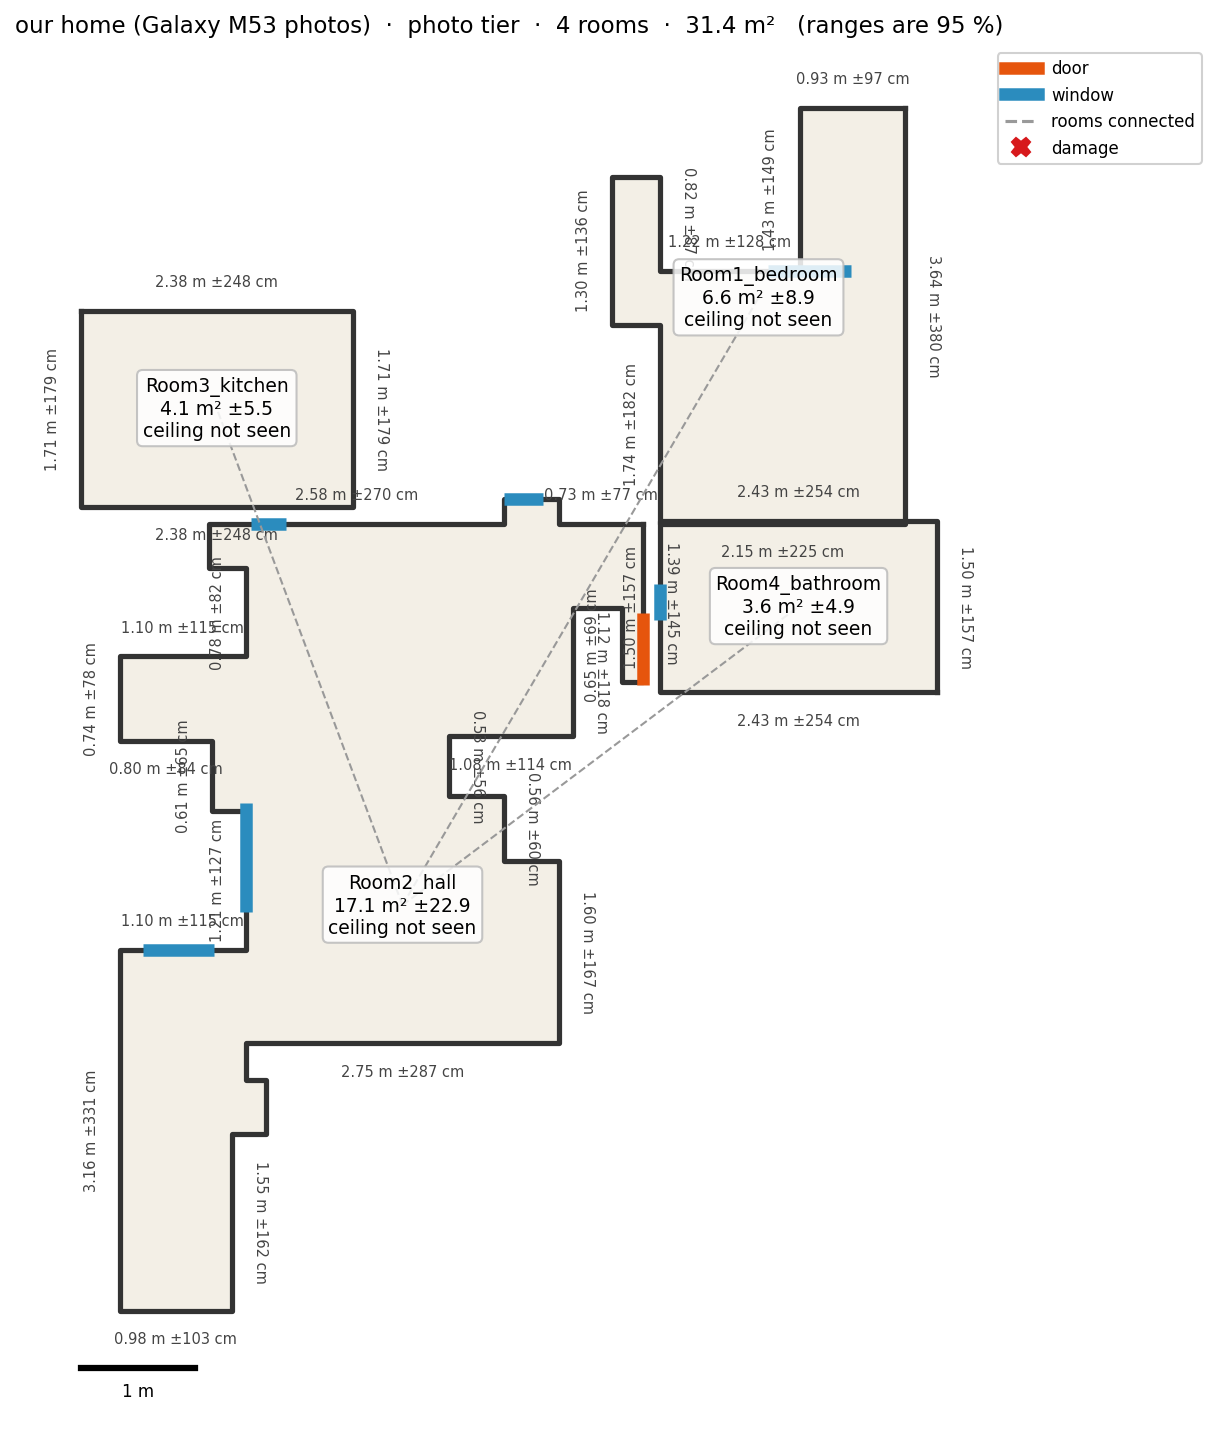
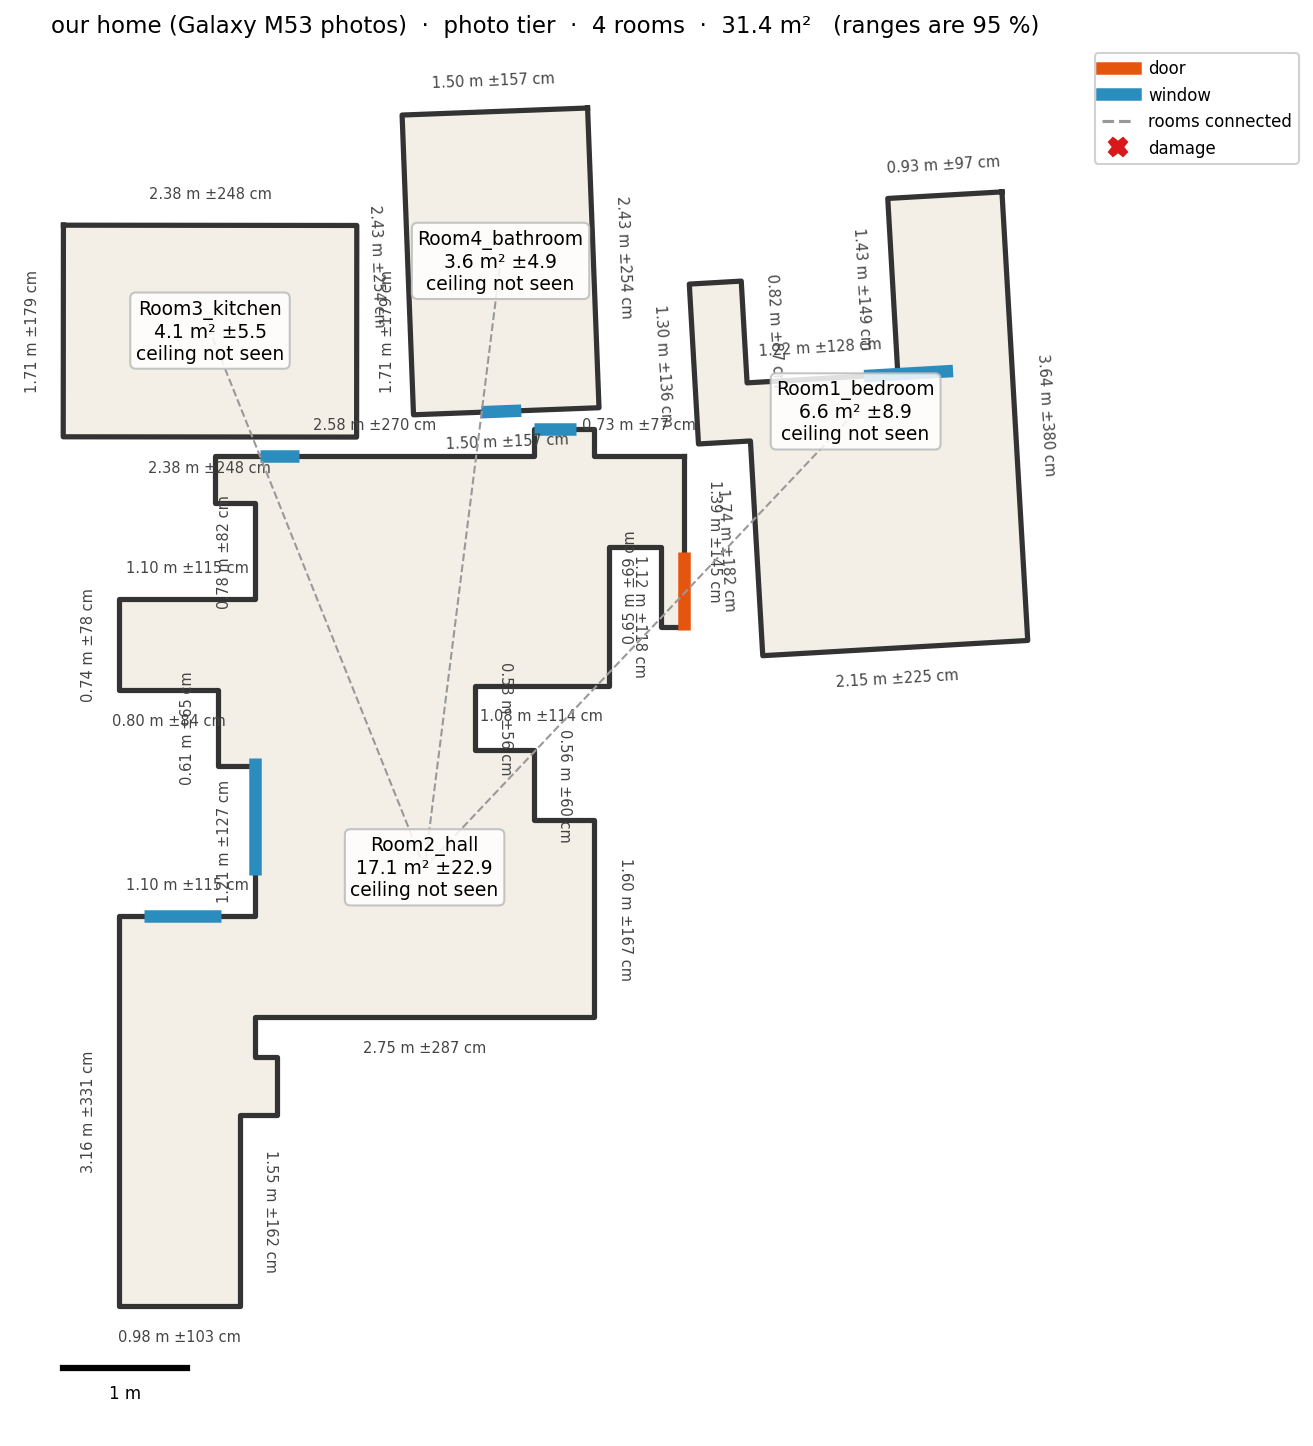
Photo stitching: align rooms on the shared doorway photo's camera, then slide against the hall wall

diff --git a/roomscan/stitch_rooms.py b/roomscan/stitch_rooms.py
@@ -101,11 +101,29 @@ def _doors(info, k):
     return ds
 
 
+def same_photo_pose(info_i, ki, info_j, kj):
+    """(R2, t) moving room j so that photo kj lands on photo ki, looking the same way. Used when the very same
+    photo is in both rooms' folders: it was taken from one spot, so its camera must coincide in both rooms."""
+    fi, fj = _unit(info_i["forward_plan"][ki]), _unit(info_j["forward_plan"][kj])
+    ang = np.arctan2(fi[1], fi[0]) - np.arctan2(fj[1], fj[0])
+    R = np.array([[np.cos(ang), -np.sin(ang)], [np.sin(ang), np.cos(ang)]])
+    return R, np.asarray(info_i["cameras_plan"][ki], float) - R @ np.asarray(info_j["cameras_plan"][kj], float)
+
+
 def _candidates(infos, rooms, placed_idx, i, j, link, used):
     """All (score, j, R, t, door_i, door_j) for attaching unplaced room j to placed room i."""
     ki, kj = (link["photo_i"], link["photo_j"]) if i < j else (link["photo_j"], link["photo_i"])
     cos_lim = np.cos(np.radians(AIM_MAX_DEG))
     out = []
+    if link.get("same_photo"):
+        # strongest evidence: the shared photo's camera is one point in both rooms
+        R, t = same_photo_pose(infos[i], ki, infos[j], kj)
+        cand = transform_room(infos[j]["room"], R, t)
+        ov = _overlap(cand, [rooms[p] for p in placed_idx])
+        cam = {"id": f"{infos[j]['room']['id']}_shared_photo", "mid": np.asarray(infos[i]["cameras_plan"][ki], float),
+               "normal_out": _unit(infos[i]["forward_plan"][ki]), "width": VIRTUAL_DOOR_WIDTH, "virtual": True}
+        out.append((np.log1p(link["matches"]) + 3.0 - 2 * ov, R, t, cam, cam, ov))
+        return out
     for da in _doors(infos[i], ki):
         if da["id"] in used:
             continue
@@ -138,6 +156,24 @@ def resolve_overlap(room, placed, normal):
         k += 1
 
 
+def slide_to(room, target, placed, gap=WALL_THICKNESS):
+    """Move room straight towards `target` until they are `gap` apart, stopping early if it would overlap a
+    placed room. A shared photo fixes a room's turn well but its position only to about a metre."""
+    from shapely.ops import nearest_points
+    p, q = nearest_points(_poly(room), _poly(target))
+    d = p.distance(q)
+    if d <= gap + PUSH_STEP:
+        return room, 0.0
+    u = _unit([q.x - p.x, q.y - p.y])
+    moved, done = room, 0.0
+    for dist in list(np.arange(PUSH_STEP, d - gap, PUSH_STEP)) + [d - gap]:
+        nxt = transform_room(room, np.eye(2), u * dist)
+        if _overlap(nxt, placed) > MAX_OVERLAP:
+            break
+        moved, done = nxt, float(dist)
+    return moved, done
+
+
 def stitch(infos, links):
     """infos: per room {"room", "cameras_plan", "forward_plan"} in the room's own plan coordinates;
     links: {(i, j): {"matches", "photo_i", "photo_j"}} with i < j. Returns (rooms, adjacency, warnings)."""
@@ -168,6 +204,10 @@ def stitch(infos, links):
         if ov > MAX_OVERLAP:
             room, pushed = resolve_overlap(room, [rooms[p] for p in placed], _unit(da["normal_out"]))
             warnings.append(f"{room['id']}: pushed {pushed:.2f} m away from {rooms[a]['id']} to avoid overlap")
+        elif l.get("same_photo"):
+            room, slid = slide_to(room, rooms[a], [rooms[p] for p in placed])
+            if slid > 0:
+                warnings.append(f"{room['id']}: moved {slid:.2f} m towards {rooms[a]['id']} to close the gap")
         rooms[b] = room
         placed.append(b)
         # a detected door joins exactly two rooms; a virtual door is only "the wall this photo looks at",

diff --git a/tests/test_stitch_rooms.py b/tests/test_stitch_rooms.py
@@ -138,3 +138,32 @@ def test_conflicting_placement_pushed_apart():
                                 (0, 2): {"matches": 40, "photo_i": 0, "photo_j": 0}})
     assert _overlaps(rooms) <= 0.1
     assert any("pushed" in w for w in warns)
+
+
+def test_same_photo_in_both_rooms_aligns_the_two_cameras():
+    # hall 4 x 3; the shared doorway photo was taken in the east doorway at (4.0, 2.5), looking east (+x)
+    hall = make_room("H", [(0, 0), (4, 0), (4, 3), (0, 3)])
+    # room B (2 x 2) in its own frame, turned 90 deg: the same photo sits at (1.0, 0.0) looking north (+y)
+    b = make_room("B", [(0, 0), (2, 0), (2, 2), (0, 2)])
+    infos = [info(hall, [(1, 1), (4.0, 2.5)], [(1, 0), (1, 0)]),
+             info(b, [(1.0, 0.0), (1, 1)], [(0, 1), (0, 1)])]
+    links = {(0, 1): {"matches": 800, "photo_i": 1, "photo_j": 0, "same_photo": True}}
+    rooms, adj, _ = stitch(infos, links)
+    # B is turned -90 deg so its camera lands on the hall's camera, looking the same way:
+    # B's corner (0, 0) -> (4.0, 3.5) and (2, 2) -> (6.0, 1.5); no push needed
+    np.testing.assert_allclose(rooms[1]["polygon"][0], [4.0, 3.5], atol=1e-6)
+    np.testing.assert_allclose(rooms[1]["polygon"][2], [6.0, 1.5], atol=1e-6)
+    assert len(adj) == 1
+
+
+def test_room_placed_by_shared_photo_is_slid_up_to_the_hall():
+    # same rooms, but the shared photo's position in B is 1 m off: B would float 1 m east of the hall
+    hall = make_room("H", [(0, 0), (4, 0), (4, 3), (0, 3)])
+    b = make_room("B", [(0, 0), (2, 0), (2, 2), (0, 2)])
+    infos = [info(hall, [(1, 1), (4.0, 2.5)], [(1, 0), (1, 0)]),
+             info(b, [(1.0, -1.0), (1, 1)], [(0, 1), (0, 1)])]
+    links = {(0, 1): {"matches": 800, "photo_i": 1, "photo_j": 0, "same_photo": True}}
+    rooms, _, _ = stitch(infos, links)
+    gap = Polygon(rooms[0]["polygon"]).distance(Polygon(rooms[1]["polygon"]))
+    assert abs(gap - 0.15) < 0.03
+    assert _overlaps(rooms) < 1e-6

diff --git a/roomscan/photo_links.py b/roomscan/photo_links.py
@@ -52,6 +52,10 @@ def room_links(images_by_room, min_matches=25):
                     m = _inliers(fa, fb, matcher)
                     if m > best[0]:
                         best = (m, p, q)
+            same = [(p, q) for p, a in enumerate(images_by_room[i]) for q, b in enumerate(images_by_room[j])
+                    if a.shape == b.shape and np.array_equal(a, b)]
+            if same:                                   # the protocol's doorway photo, copied into both folders
+                best = (best[0], *same[0])
             if best[0] >= min_matches:
-                links[(i, j)] = {"matches": best[0], "photo_i": best[1], "photo_j": best[2]}
+                links[(i, j)] = {"matches": best[0], "photo_i": best[1], "photo_j": best[2], "same_photo": bool(same)}
     return links

diff --git a/docs/compliance_matrix.md b/docs/compliance_matrix.md
@@ -3,7 +3,7 @@
 Each row is one requirement from the brief. Status is **Met**, **Gap** (met, with the gap stated) or
 **Not met** (with the reason). Numbers come from `docs/benchmark_report.md`.
 
-**Summary:** 28 met, 8 with a gap, 5 not met. Four of the five are accuracy gates (openings, ceiling height,
+**Summary:** 30 met, 6 with a gap, 5 not met. Four of the five are accuracy gates (openings, ceiling height,
 repeatability, wall lengths). The fifth is the comparison with a consumer app, which needed a LiDAR iPhone.
 
 ## Part 1: Capture and input tiers
@@ -22,7 +22,7 @@ repeatability, wall lengths). The fifth is the comparison with a consumer app, w
 | # | Requirement | Where | Evidence | Status |
 |---|---|---|---|---|
 | 2.1 | Per room: walls, ceiling, area, openings | `roomscan/room_outline.py`, `room_surfaces.py`, `visual_openings.py` | every room record has all four | Met |
-| 2.2 | Stitched plan with correct adjacency | `roomscan/split_rooms.py`, `stitch_rooms.py` | our home: 3 of 3 door connections, no overlap | Gap: the bathroom is placed beside the bedroom; it is really beside the kitchen |
+| 2.2 | Stitched plan with correct adjacency | `roomscan/split_rooms.py`, `stitch_rooms.py` | our home: 3 of 3 door connections, rooms in the right order, no overlap | Met |
 | 2.3 | Damage regions with class and size | `roomscan/damage_*.py` | class, surface and size in metres | Gap: the staged stain was in one photo only and is dropped |
 | 2.4 | Concealed-damage flags naming the rule | `roomscan/damage_rules.py` | rules R1-R5 | Met |
 | 2.5 | Repair items keyed to surfaces | `roomscan/repair_scope.py` | surface, action, quantity with range | Met |
@@ -49,7 +49,7 @@ repeatability, wall lengths). The fifth is the comparison with a consumer app, w
 | 2.16 | Ceiling height within 1.5 cm | ceilings not in our photos or videos; wide ranges | Not met |
 | 2.17 | Same room twice within 1 cm per wall | video 0 of 3 walls; LiDAR sample 0 of 14 | Not met |
 | 2.18 | Drift method and on/off comparison | technical report section 5 | Met |
-| 2.19 | Photo stitch: adjacency, no overlap, footprint ±8 % | 3 of 3 door connections, no overlap, +6 % | Gap: bathroom placed beside the bedroom instead of the kitchen |
+| 2.19 | Photo stitch: adjacency, no overlap, footprint ±8 % | 3 of 3 door connections, right order, no overlap, +6 % | Met |
 | 2.20 | Wall lengths: photo ±8 %, video ±3 % | photo 2 of 16 walls; video rooms −31 % to +92 % | Not met |
 | 2.21 | Ranges contain the truth | 4 of 4 areas, 15 of 16 walls; ranges are wide | Met |
 

diff --git a/docs/benchmark_report.md b/docs/benchmark_report.md
@@ -20,9 +20,8 @@ Saved result: `results/m53_benchmark.json`, key `photo_protocol`.
 
 *The plan the photo tier produced for our home. It is the pipeline's output, not the real layout. The real
 hall is a 3.79 × 4.11 m rectangle; here it is jagged and too long because furniture hid parts of its walls.
-The kitchen should touch the hall but is drawn slightly apart from it. In the real home the bathroom is beside
-the kitchen; the plan puts it beside the bedroom. The pipeline only learns that each room opens onto the hall
-(the dashed lines, all three correct), not which rooms sit next to each other. No ceiling was visible in the
+The kitchen, bathroom and bedroom are in the right order along the hall, each joined where its doorway photo
+was taken (dashed lines). The bedroom and bathroom are turned 2-3° from square. No ceiling was visible in the
 photos.*
 
 | Room | Tape | Photo tier | Error | Tape inside 95 % range |
@@ -36,7 +35,7 @@ photos.*
 | Gate | Result | Pass |
 |---|---|---|
 | Whole-home footprint within ±8 % | +6 % | yes |
-| All rooms placed, correct connections, no overlap | 3 of 3 door connections, largest overlap 0.06 m²; but the bathroom is placed beside the bedroom instead of the kitchen | partly |
+| All rooms placed, correct connections, no overlap | 3 of 3 door connections, rooms in the right order, no overlap | yes |
 | Wall lengths within ±8 % | 2 of 16 walls; mean error 74 cm | no |
 | Door and window widths within 2 cm on 85 % | 0 of 9, plus 6 false openings | no |
 | Ceiling height within 1.5 cm | ceiling not in the photos; values 3.3-4.3 m against 2.74 m | no |

diff --git a/docs/technical_report.md b/docs/technical_report.md
@@ -24,7 +24,9 @@ planes ── floor / ceiling / walls ── rooms ── outlines, openings, ce
 - Video: picks sharp frames, estimates poses and depth with VGGT-1B in chunks of 20 frames (to fit an 8 GB
   GPU), and sets the metric scale with Depth Anything V2 Metric-Indoor.
 - Photos: the same models, run on one room folder at a time, with the focal length taken from EXIF. Rooms are
-  joined where the same doorway photo appears in both rooms' folders.
+  joined with the doorway photo that appears in both rooms' folders: that photo was taken from one spot, so
+  the room is turned and moved until the photo's camera is at the same place in both rooms, and then slid
+  up against the hall wall.
 
 **Back end**
 1. Fit planes with RANSAC and label them floor, ceiling or wall.
@@ -129,8 +131,6 @@ still fail. Details: `docs/fix_loop.md`.
 ## 8. Known failure modes
 
 - **Room shape from a few photos** is the main photo-tier error (per room −21 % to +42 %).
-- **Room arrangement** in the photo tier comes only from doorway photos. On our home the bathroom was placed
-  beside the bedroom instead of the kitchen.
 - **Video poses** break up on long walks, so only the longest consistent piece is used.
 - **Mirrors and glass** flip video poses and can look like openings.
 - **Shiny floors** fool the damage detector, so floors only report mould.

diff --git a/docs/TRADEOFFS.md b/docs/TRADEOFFS.md
@@ -65,9 +65,8 @@ shapes from a few photos needs a different method, not more rules.
   so 0 of 9 were within 2 cm.
 - **Damage seen in only one photo is dropped.** This removed all 12 false alarms on our home, but it also
   dropped the staged water stain.
-- **Room arrangement.** Rooms are joined only through shared doorway photos, so the pipeline knows which rooms
-  open onto the hall but not which rooms sit next to each other. On our home the bathroom was placed beside
-  the bedroom; it is really beside the kitchen.
+- **Room joining needs the doorway photo in both folders.** Without it only 1 of 3 rooms is joined. The shared
+  photo fixes each room's position to within about a metre; the room is then slid against the hall wall.
 - **Thin cracks** are hard for every detector we tried.
 - **Drift correction** is off by default. It removes added drift on synthetic data but shows no gain on the real
   scans and changes how rooms are split.

diff --git a/README.md b/README.md
@@ -30,7 +30,7 @@ Measured against tape on our own home (4 rooms, Samsung Galaxy M53).
 
 | Measure | Result | Target | Status |
 |---|---|---|---|
-| Photo tier, whole-home footprint | +6 %, all rooms connected to the hall (bathroom placed on the wrong side) | ±8 % | Pass |
+| Photo tier, whole-home footprint | +6 %, all rooms placed and connected in the right order | ±8 % | Pass |
 | Photo tier, per room | −21 % to +42 % | ±8 % | Fail |
 | Video tier | −31 % to +92 % | ±3 % | Fail |
 | Fix loop, photo footprint | +30 % before, +7.5 % after | | |
